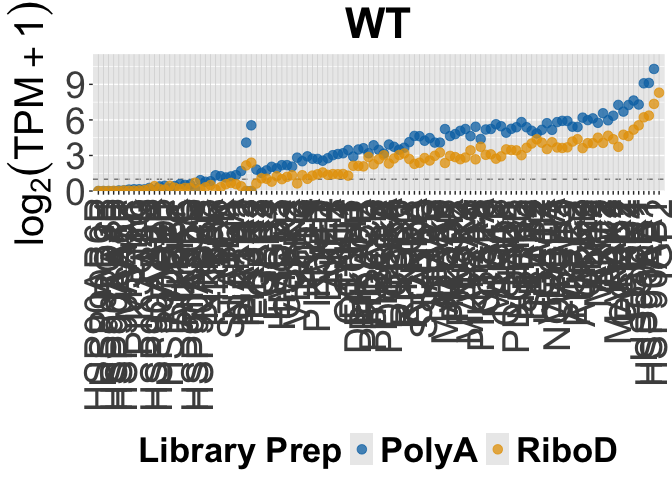
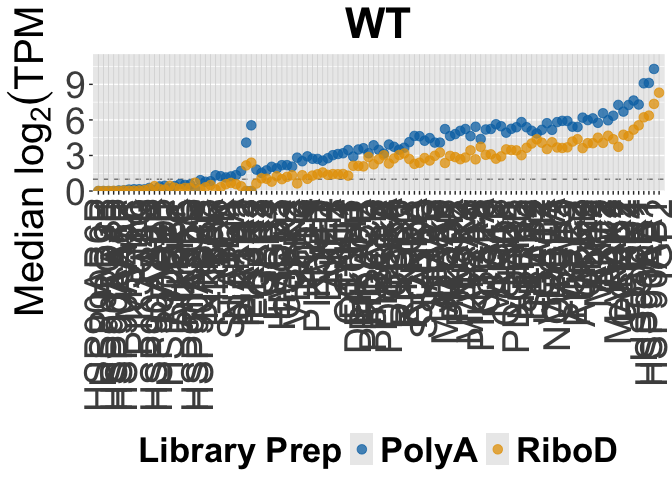
misc changes
subscript log2 and changed y-axis in fig1_all, small change to fig1H y-axis labej

Changed region(s): [[0.0, 0.0, 0.0938, 0.6562]]

diff --git a/Fig_1/Fig1_all/Fig1_all.md b/Fig_1/Fig1_all/Fig1_all.md
@@ -137,7 +137,10 @@ scale_color_compendia <- function() {
 ``` r
 Fig1C_SS <- ggplot(bin_prop_1C, aes(x = Compendia, y = Proportion, fill = ExprBin)) +
     geom_bar(stat = "identity", position = "stack") +
-    scale_fill_viridis_d(option = "D", name = "log2(TPM+1)") +
+    scale_fill_viridis_d(
+      option = "D", 
+      name = expression(atop("Expression", "in log"[2]*"(TPM+1)"))
+    ) +
     labs(
       x = NULL,
       y = "Proportion of Genes",
@@ -272,9 +275,10 @@ Fig1D_SS <- ggplot(combined_counts_1D, aes(x = Compendia, y = Count, fill = Comp
     scale_color_compendia() +
 #    coord_cartesian(ylim = c(0, y_star * 1.1)) +
     labs(
-      x = "log2(TPM+1) = x",
+      # x = "log2(TPM+1) = x",
       y = "Number of Unique Genes"
     ) +
+    xlab(bquote(log[2](TPM+1))) +
     theme_minimal() +
     theme_1d() +
     theme(
@@ -396,9 +400,10 @@ Fig1E_SS <- ggplot(combined_long, aes(x = Gene, y = Expression, fill = Compendia
     coord_cartesian(ylim = c(0, 10)) +
     # facet_wrap(~ PlotType, ncol = 2, scales = "free_x") +
     labs(
-      x = NULL,
-      y = "log2(TPM+1)"
+      x = NULL
+      # y = "log2(TPM+1)"
     ) +
+    ylab(bquote(log[2](TPM+1))) +
     color_theme_1E() +
     theme(
       axis.title.y = element_text(size = 20),
@@ -602,11 +607,12 @@ Fig1G_SS <- ggplot(combined_medians_hugo_res, aes(x = polyA_medians, y = riboD_m
 
     geom_abline(slope = 1, intercept = 0,
                 linetype = "dashed", color = "gray50") +
-
-    labs(
-      x = "RiboD median log2(TPM+1)",
-      y = "PolyA median log2(TPM+1)",
-    ) +
+    # labs(
+    #   x = "PolyA median log2(TPM+1)",
+    #   y = "RiboD median log2(TPM+1)",
+    # ) +
+    xlab(bquote(PolyA~Median~log[2](TPM+1))) +
+    ylab(bquote(RiboD~Median~log[2](TPM+1))) +
     theme_minimal(base_size = 14) +
     plot_theme()
 Fig1G_SS
@@ -662,9 +668,10 @@ Fig1H_SS <- ggplot(combined_medians_drug, aes(x = Gene, y = Expression, color = 
     labs(
       # x = "Treehouse Druggable Genes",
       x = NULL,
-      y = "Median log2(TPM+1)",
+      # y = "Median log2(TPM+1)",
       color = "Library Prep"
     ) +
+    ylab(bquote(Median~log[2](TPM+1))) +
     theme(
       # axis.text.x = element_blank(),
       # axis.title.x = element_blank(), 

diff --git a/Fig_1/Fig1H/Fig1H.md b/Fig_1/Fig1H/Fig1H.md
@@ -544,7 +544,7 @@ df <- combined_medians_drug %>%
       # y = "Expression log2(TPM+1)",
       color = "Library Prep"
     ) +
-    ylab(bquote(log[2](TPM+1))) +
+    ylab(bquote(Median~log[2](TPM+1))) +
     theme(
       # axis.text.x = element_blank(),
       # axis.title.x = element_blank(), 
@@ -611,7 +611,7 @@ df <- combined_medians_drug %>%
       # y = "Expression log2(TPM+1)",
       color = "Library Prep"
     ) +
-    ylab(bquote(log[2](TPM+1))) +
+    ylab(bquote(Median~log[2](TPM+1))) +
     theme(
       # axis.text.x = element_blank(),
       # axis.title.x = element_blank(), 
